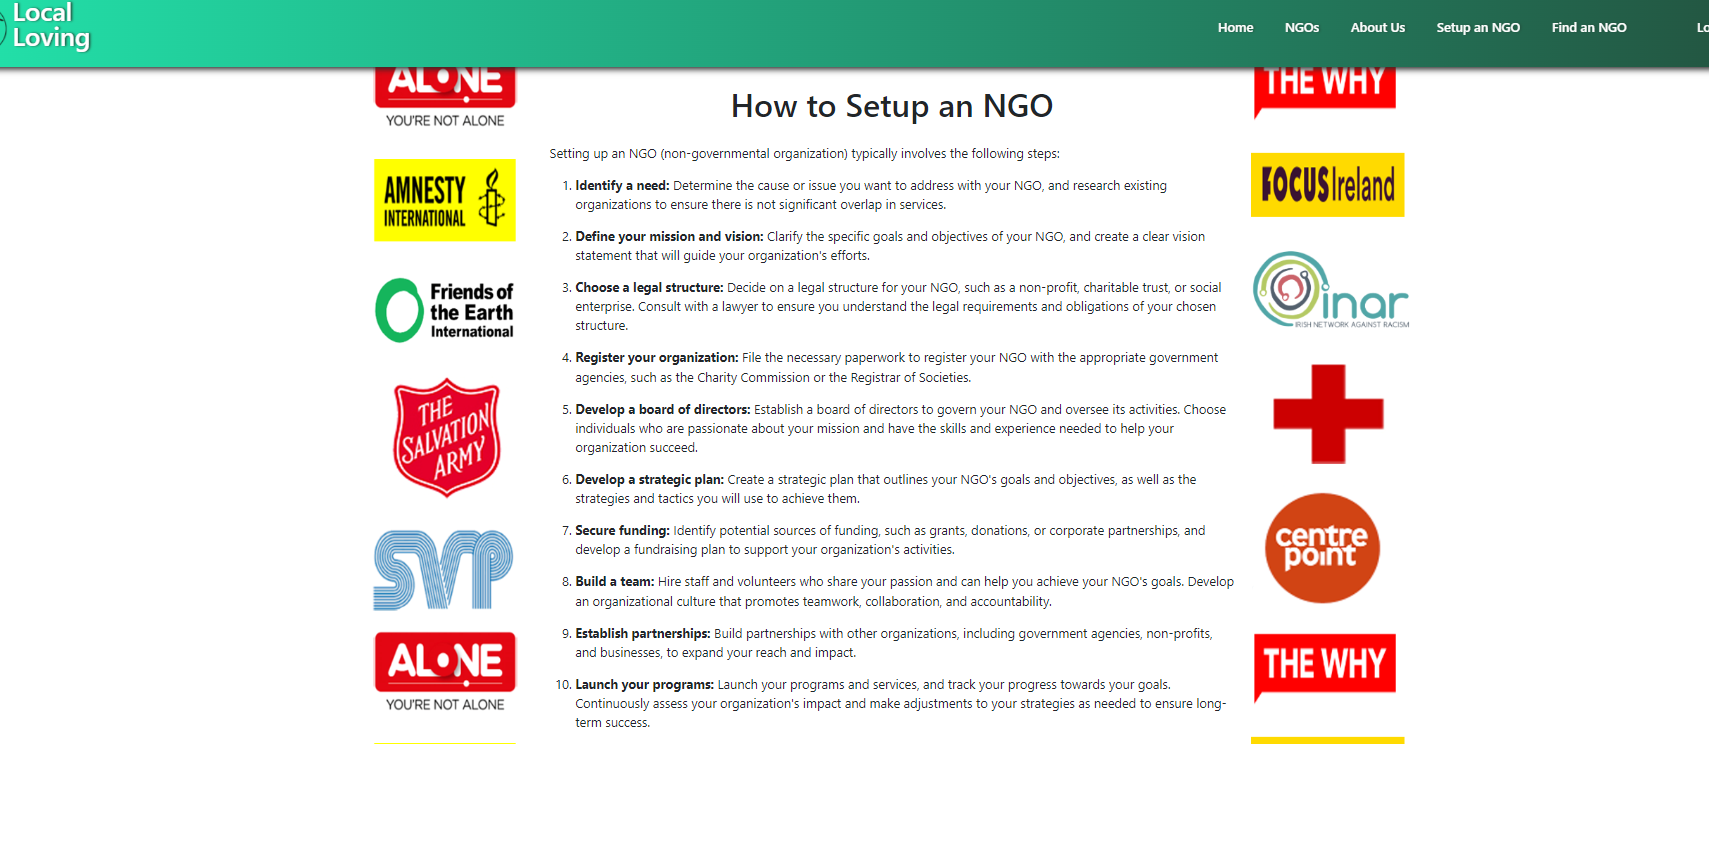
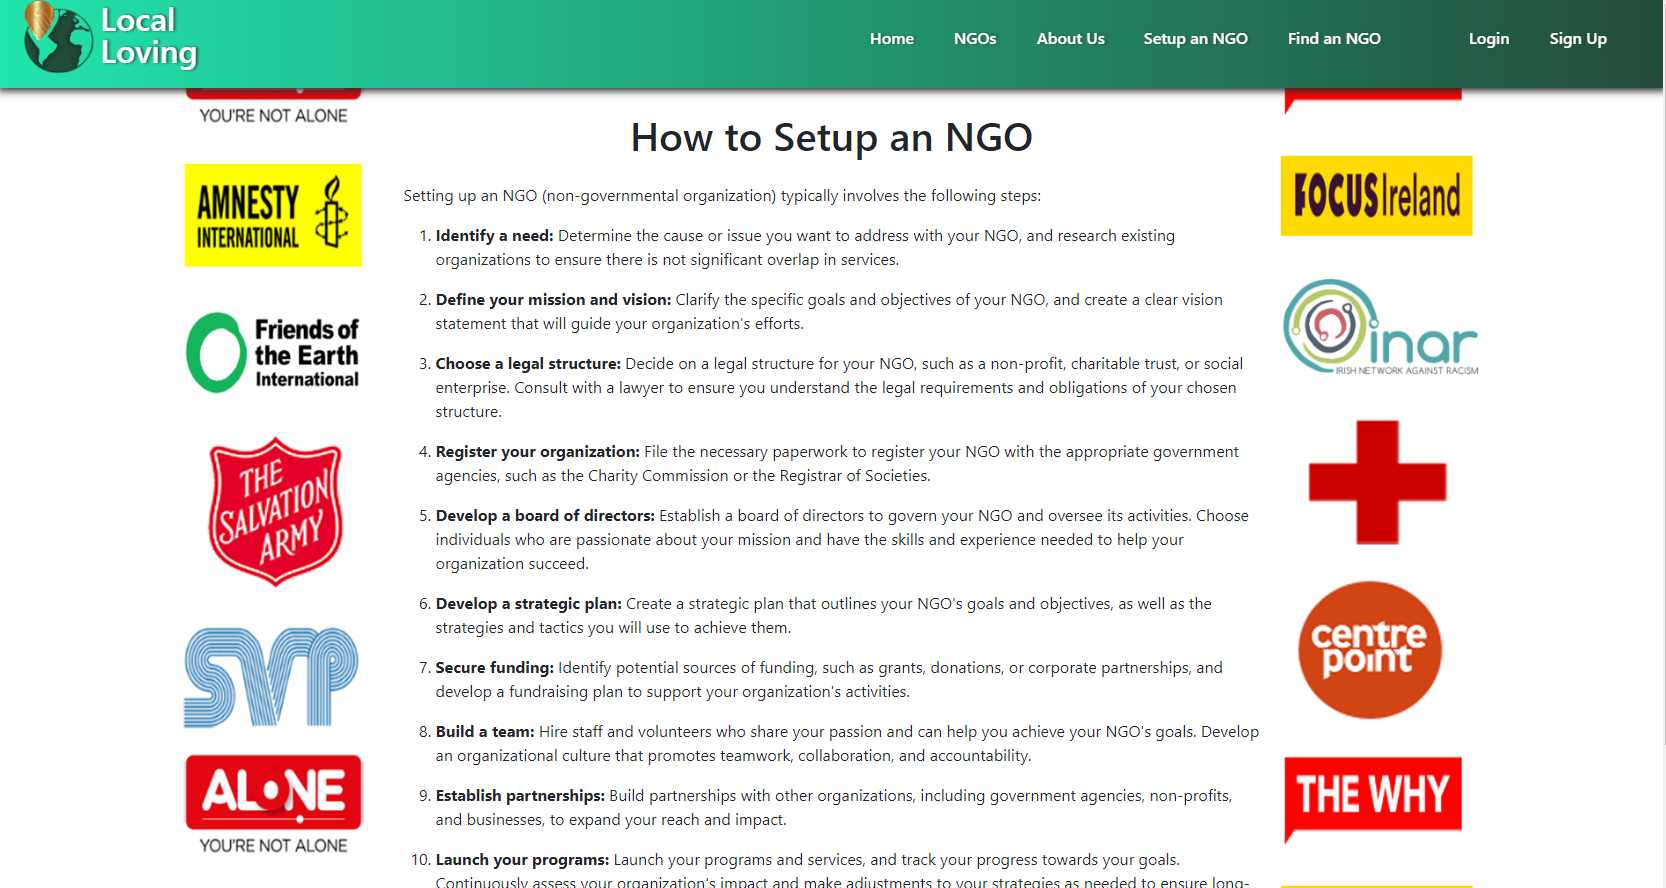
docs:readme finish user stories (#85)

Changed region(s): [[0.0, 0.0, 1.0, 1.0], [0.7803, 0.9823, 0.8739, 1.0]]

diff --git a/README.md b/README.md
@@ -1,9 +1,8 @@
 # **A Dubug Cause** : *Hackathon Feb 2023*
 
-![Responsive](assets/images/am-i-responsive.png)
 
 ## Project Overview
-A website informing users of fundrasing and charity events in their local community, as well as providing general information about NGOs, fundraising and charities.
+A website informing users of fundraising and charity events in their local community, as well as providing general information about NGOs, fundraising and charities.
 
 ### Deployed link
 Visit the site [here](https://hack-team-9.herokuapp.com/)
@@ -21,46 +20,58 @@ We set up a project and used the kanban board to organise and coordinate tasks.
 
 **Aceptance criteria**:
 - The homepage features a moving collage of NGO and charity related images as well as a short sentence describing the goal of the site. 
+- Featured NGo posts are also displayed.
 
-![Landing page]()
+![Landing page](static/readme/home-page.png)
 
 - It also features a nav bar which allows user to navigate to other pages like the "About Us" page is they want more information about the site.
+
+![About Us](static/readme/about-us.png)
 - The Navbar for visiting users that are not logged in displays a Login and Sign Up link.
 
 ![Nav bar](static/readme/navbar.png)
 -For logged in users the navbar gives access to the add Ngo page and a logout link
 
-![Nav bar logged in]()
+![Nav bar logged in](static/readme/navbar-login.png)
+
+- A footer featuring social media link, github links and a short disclaimer is also featured on every page.
+
+![footer](static/readme/footer.png)
 
 
-
-
-![About Us](static/readme/about-us.png)
 
  
 2. As a user I want to be able to view blog posts about NGOs and local charities.
 
-   **Acceptance criteria**: NGO Page
+ **Acceptance criteria**: 
+
+   - The NGO page displays the posts about featured NGOs. Logged in user's have the ability to add their NGO's to this page.
    
-  ![NGO Page](static/readme/NGO-page.png)
+  ![NGO Page](static/readme/ngo-page.png)
 
 3. As a user, I want to be able to register an account so that I can post about my fundraising or charity event.
-   **Acceptance criteria**:  A Sign-up and Login page allows user to register an account.
-![]()
+
+**Acceptance criteria**:  
+- A Sign-up and Login page allows user to register an account.
+   
+![Sign up](static/readme/sign-up.png)
+![Login](static/readme/sign-in-page.png)
+
 
 4. As a user, I want to post about an event I am hosting in order to spread awareness in my community
 
-   **Acceptance criteria**: NGO Page
+**Acceptance criteria**: 
+
+   - The add NGO page is only accessible to logged in users and allows them to add a post about their own NGO.
+
+![Add NGO](static/readme/add-ngo-form.png)
 
 5. As a user I want to know more about how NGOs function and how to get involved.
 
-   **Acceptance criteria** : 
-   - The site features blog posts and search features for users to learn more.
-   ![]()
+**Acceptance criteria** : 
+   - The site features blog posts and search features for users to learn more. 
 
-   -There is also a "How to Set Up an NGO" page for users.
-
-   ![How to set up an NGO](static/readme/set-up-ngo.png)
+![How to set up an NGO](static/readme/set-up-ngo.png)
 
 6. As a user I want to find NGOs based on a specific clause which is important to me.
 
@@ -136,7 +147,7 @@ Wireframes were designed by [Ant](https://github.com/Ant2210) created using figm
 ## Credits
 * Logo and image design was done by [Mia Rasmussen](https://github.com/MiaRasmussen05)
 Project idea took inspiration from the following sources:
-* []() 
+
 
 
 
